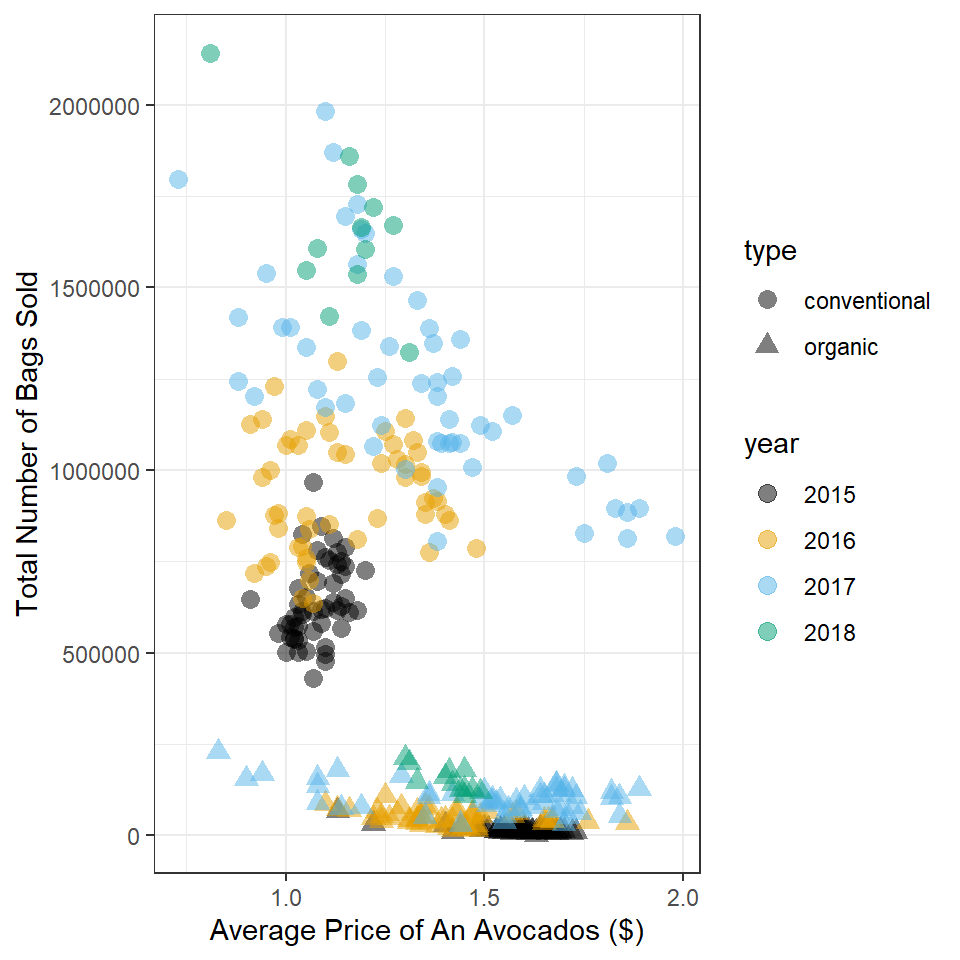
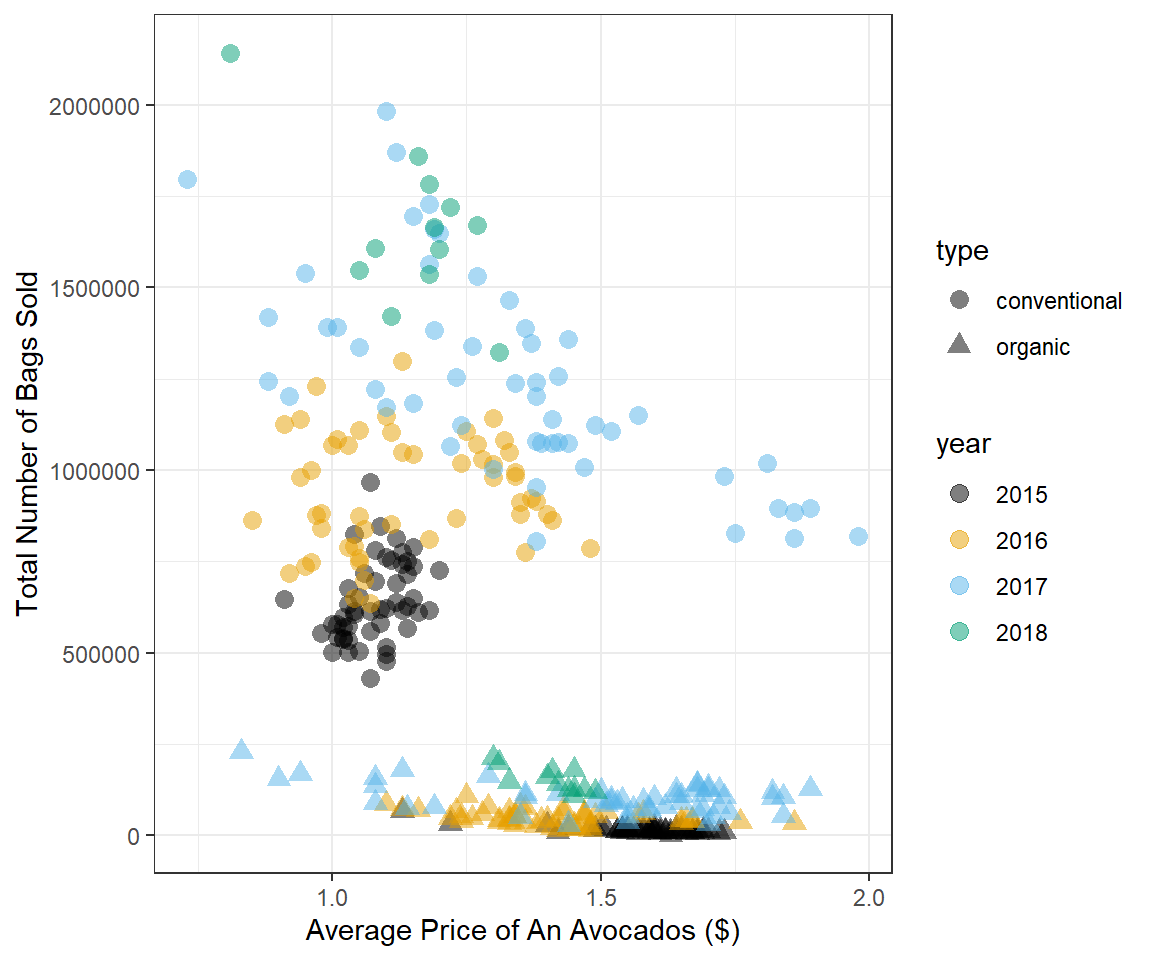
Updated avocado demo

diff --git a/modules/Intro/Demo_Avocados.html b/modules/Intro/Demo_Avocados.html
@@ -23,7 +23,7 @@ str(avoc)</code></pre>
 <div id="example-1" class="section level2">
 <h2>Example 1</h2>
 <p>Construct <code>ggplot2</code> code to match the graph below (as closely as you can).</p>
-<p><img src="Demo_Avocados_files/figure-html/avoc1-1.png" width="480" /></p>
+<p><img src="Demo_Avocados_files/figure-html/avoc1-1.png" width="576" /></p>
 </div>
 <div class="footnotes">
 <hr />
